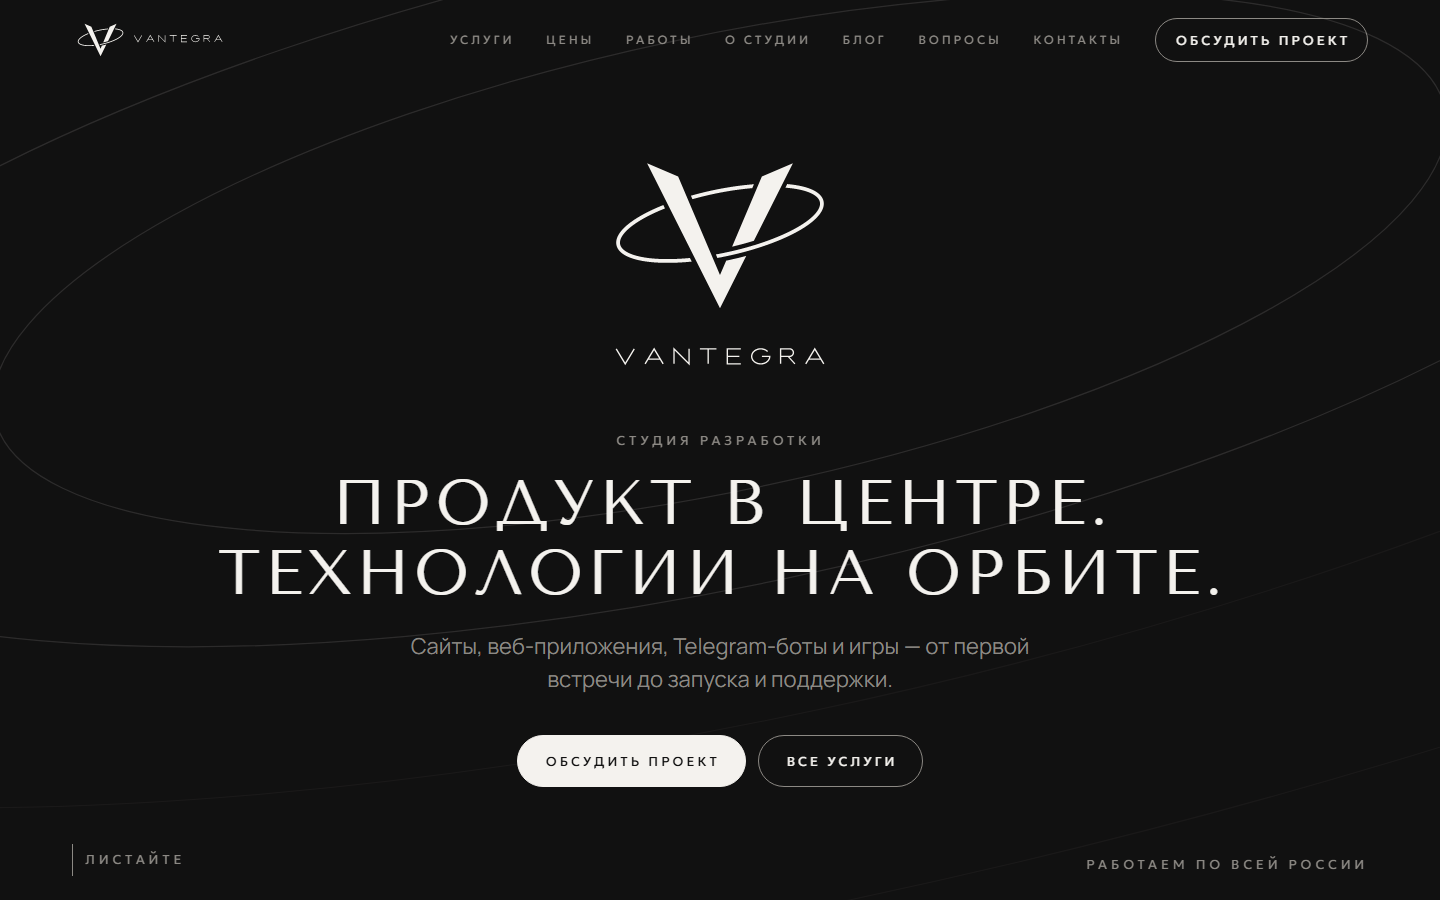
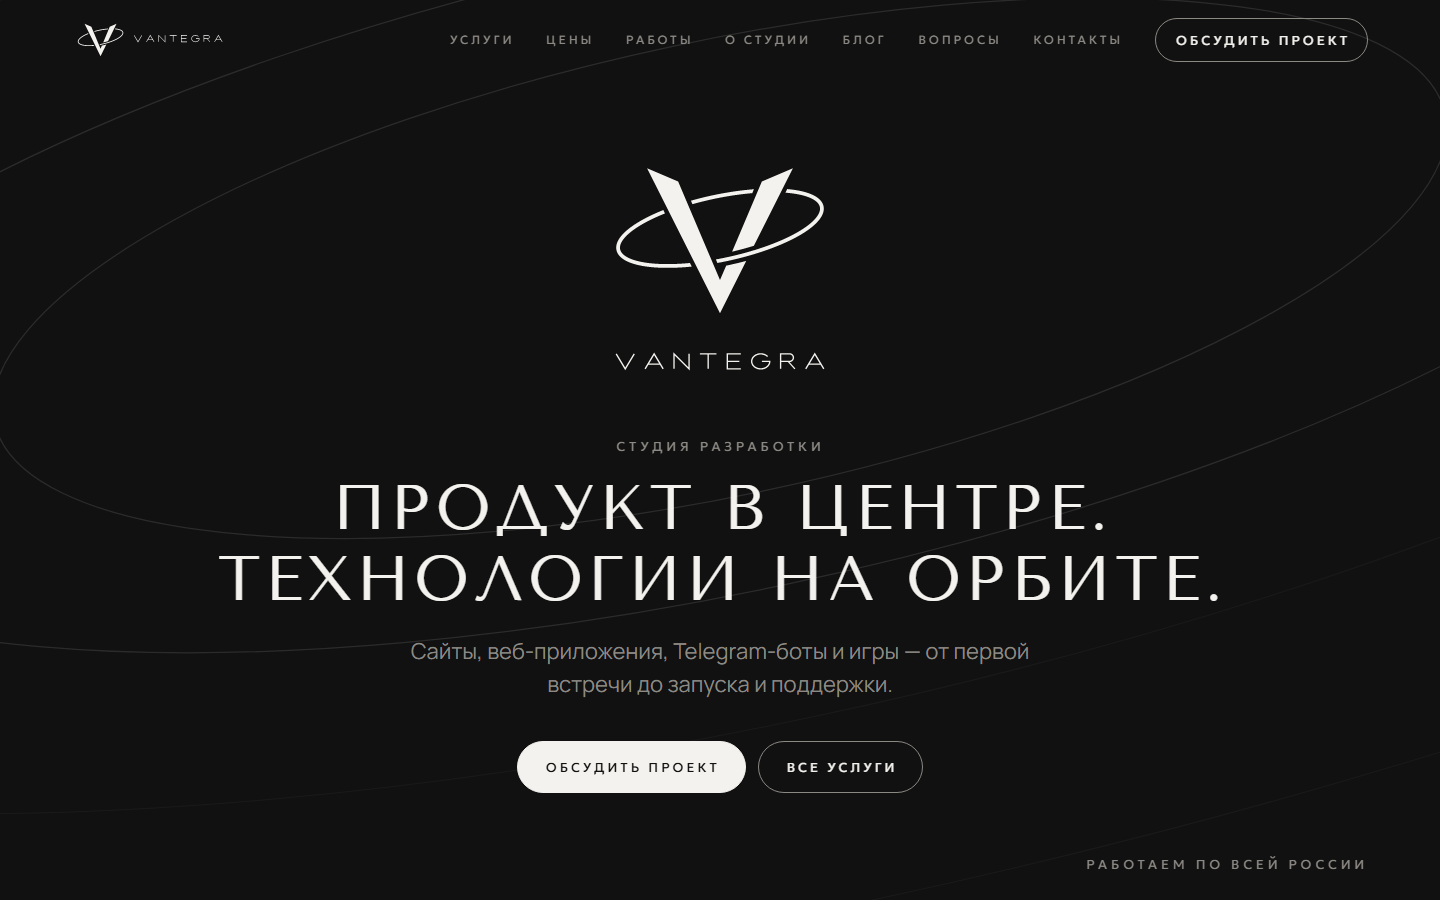
Главная: убран «Листайте» с первого экрана (правка владельца)

diff --git a/src/data/pages.ts b/src/data/pages.ts
@@ -14,7 +14,6 @@ export const home = {
     eyebrow: 'Студия разработки',
     title: ['Продукт в центре.', 'Технологии на орбите.'],
     lead: 'Сайты, веб-приложения, Telegram-боты и игры — от первой встречи до запуска и поддержки.',
-    scroll: 'Листайте',
   },
   idea: {
     label: 'Идея',

diff --git a/PLAN.md b/PLAN.md
@@ -103,7 +103,8 @@ Astro 7.3 (static, `trailingSlash: 'always'`), TypeScript strict, обычный
 8. **Markdown** — процессор unified вместо Sätteri (по умолчанию в Astro 7): нужен rehype-плагин типографа.
 9. **Прорисовка орбит** — длина кольца считается при сборке и переводится в пиксели экрана (`--len`), в конце анимации штрих снимается: при `non-scaling-stroke` Chrome считает штрихи в экранных пикселях.
 10. **Контакты в мобильном меню** — компактные строки, чтобы кнопка «Обсудить проект» помещалась на 375 × 812 без прокрутки.
-11. **Тире** — детектор impeccable отмечает «много длинных тире»; это формат подписей «01 — Название» и готовые тексты задания, оставлено по брифу.
+11. **«Листайте» убрано** с первого экрана по решению владельца (03.10.2026); внизу справа осталось «Работаем по всей России».
+12. **Тире** — детектор impeccable отмечает «много длинных тире»; это формат подписей «01 — Название» и готовые тексты задания, оставлено по брифу.
 
 ## 7. Этапы
 - [x] 1. Изучение: опись, CLAUDE.md, PLAN.md, контекст продукта
